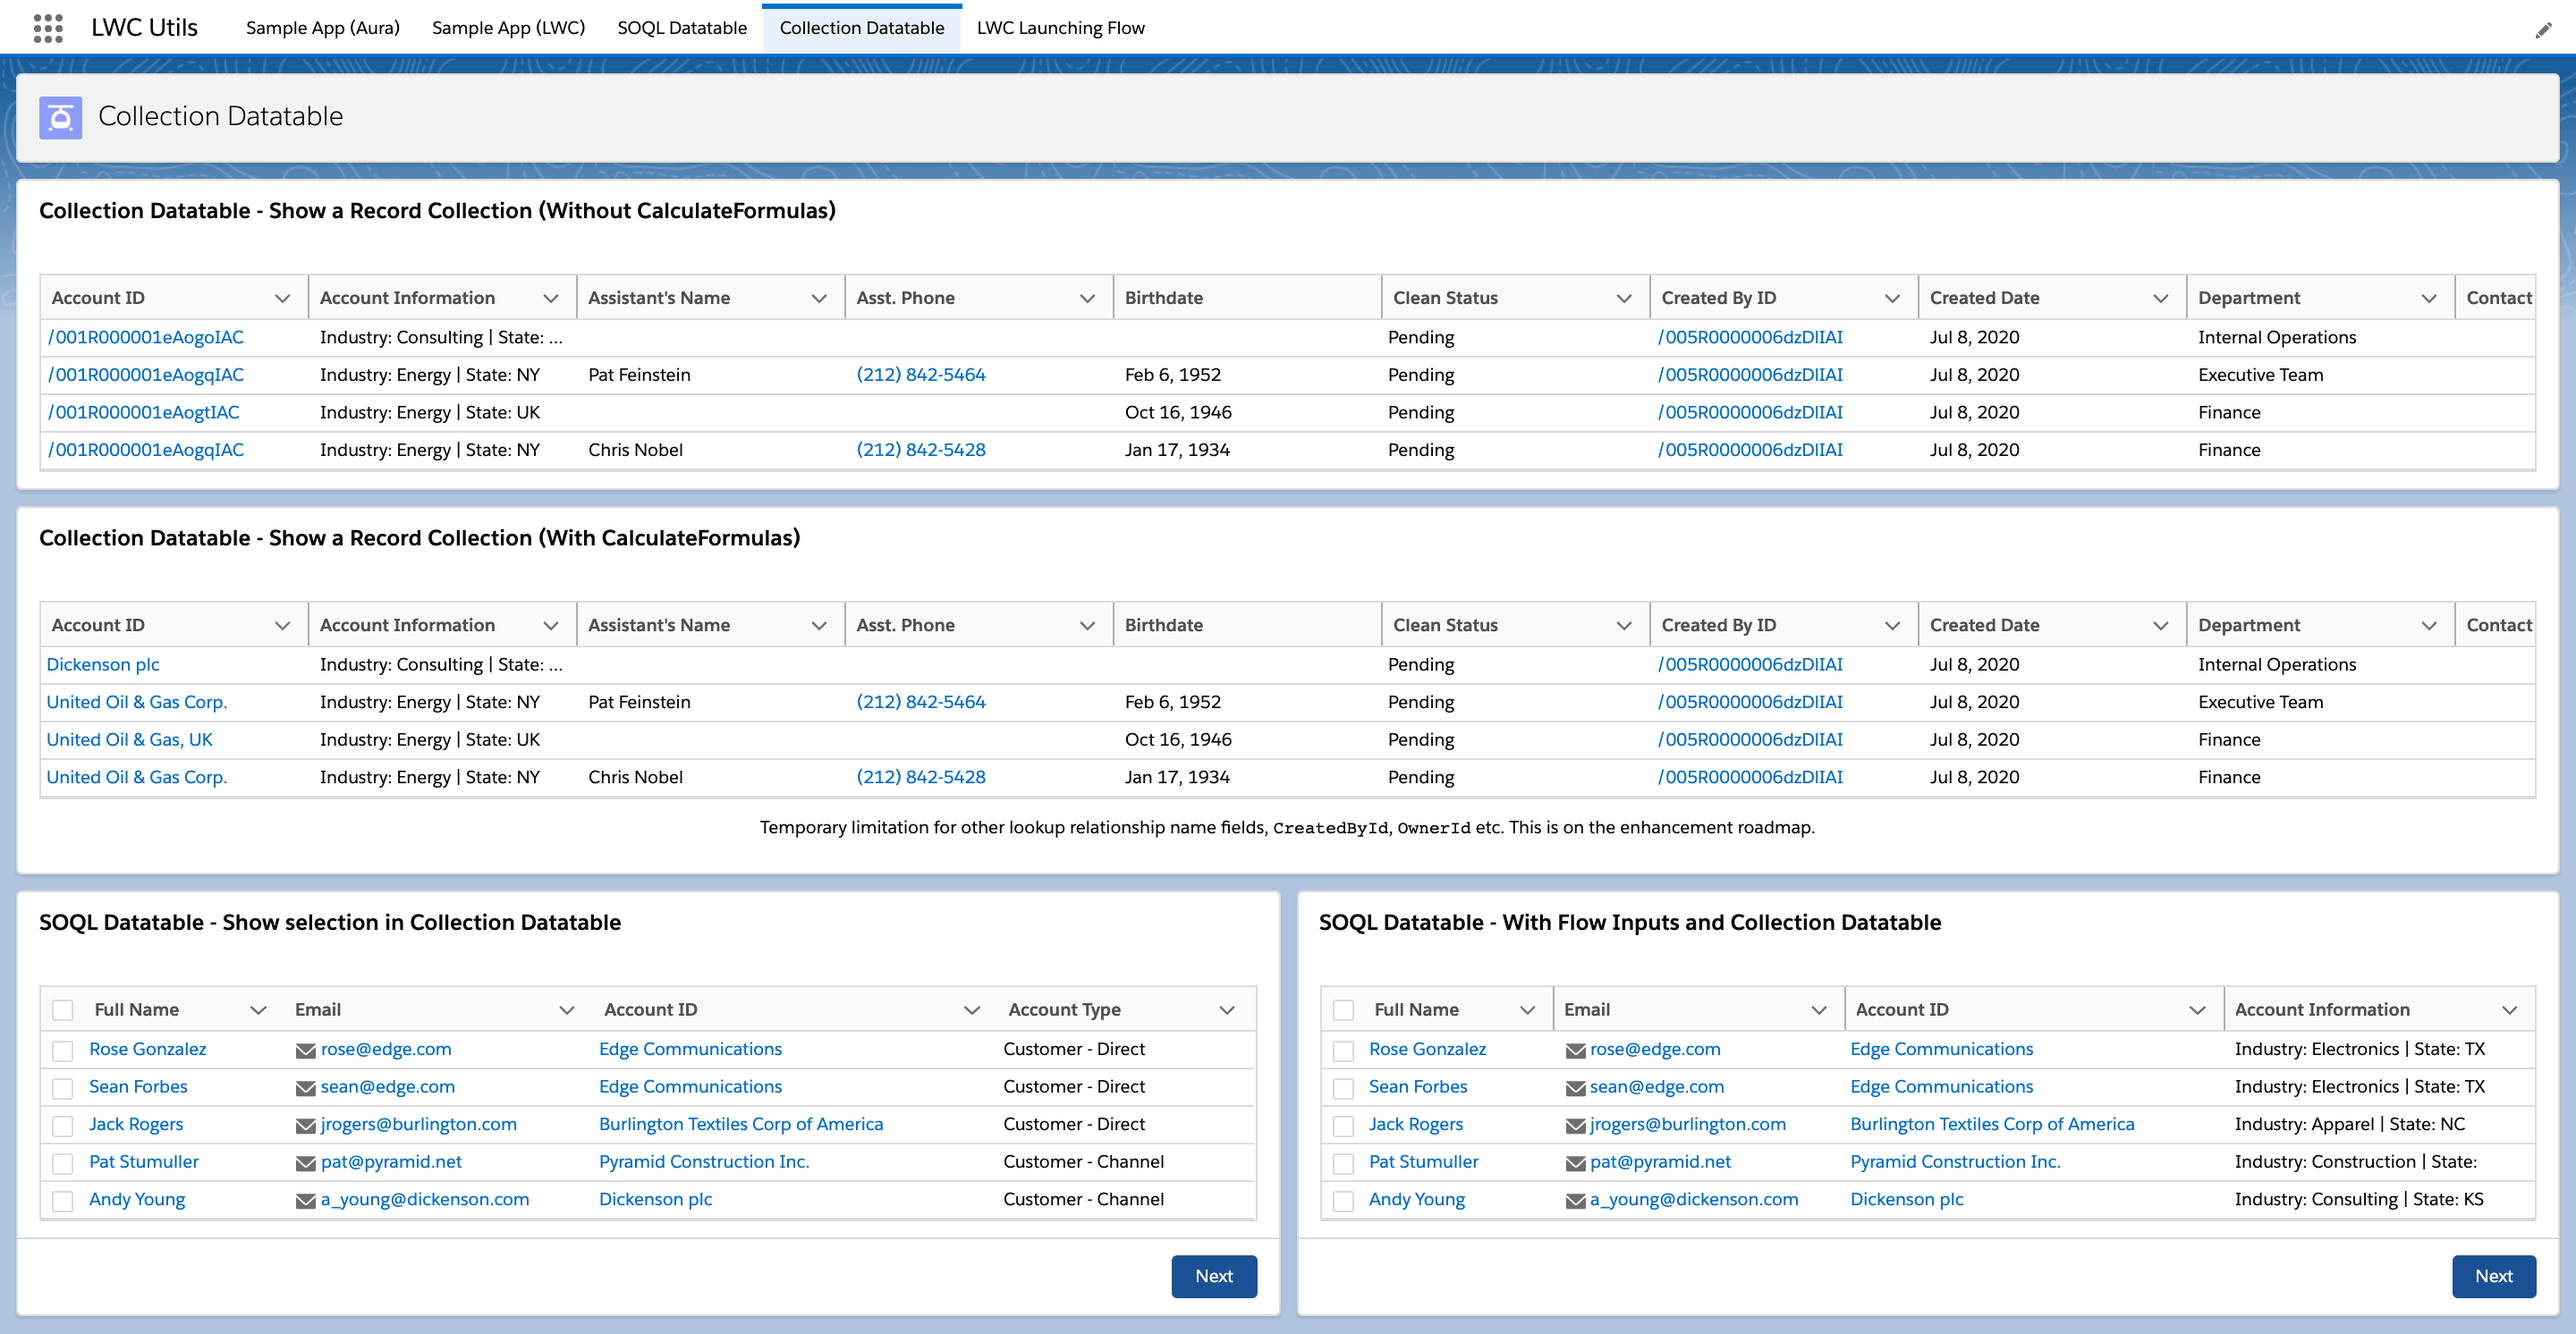
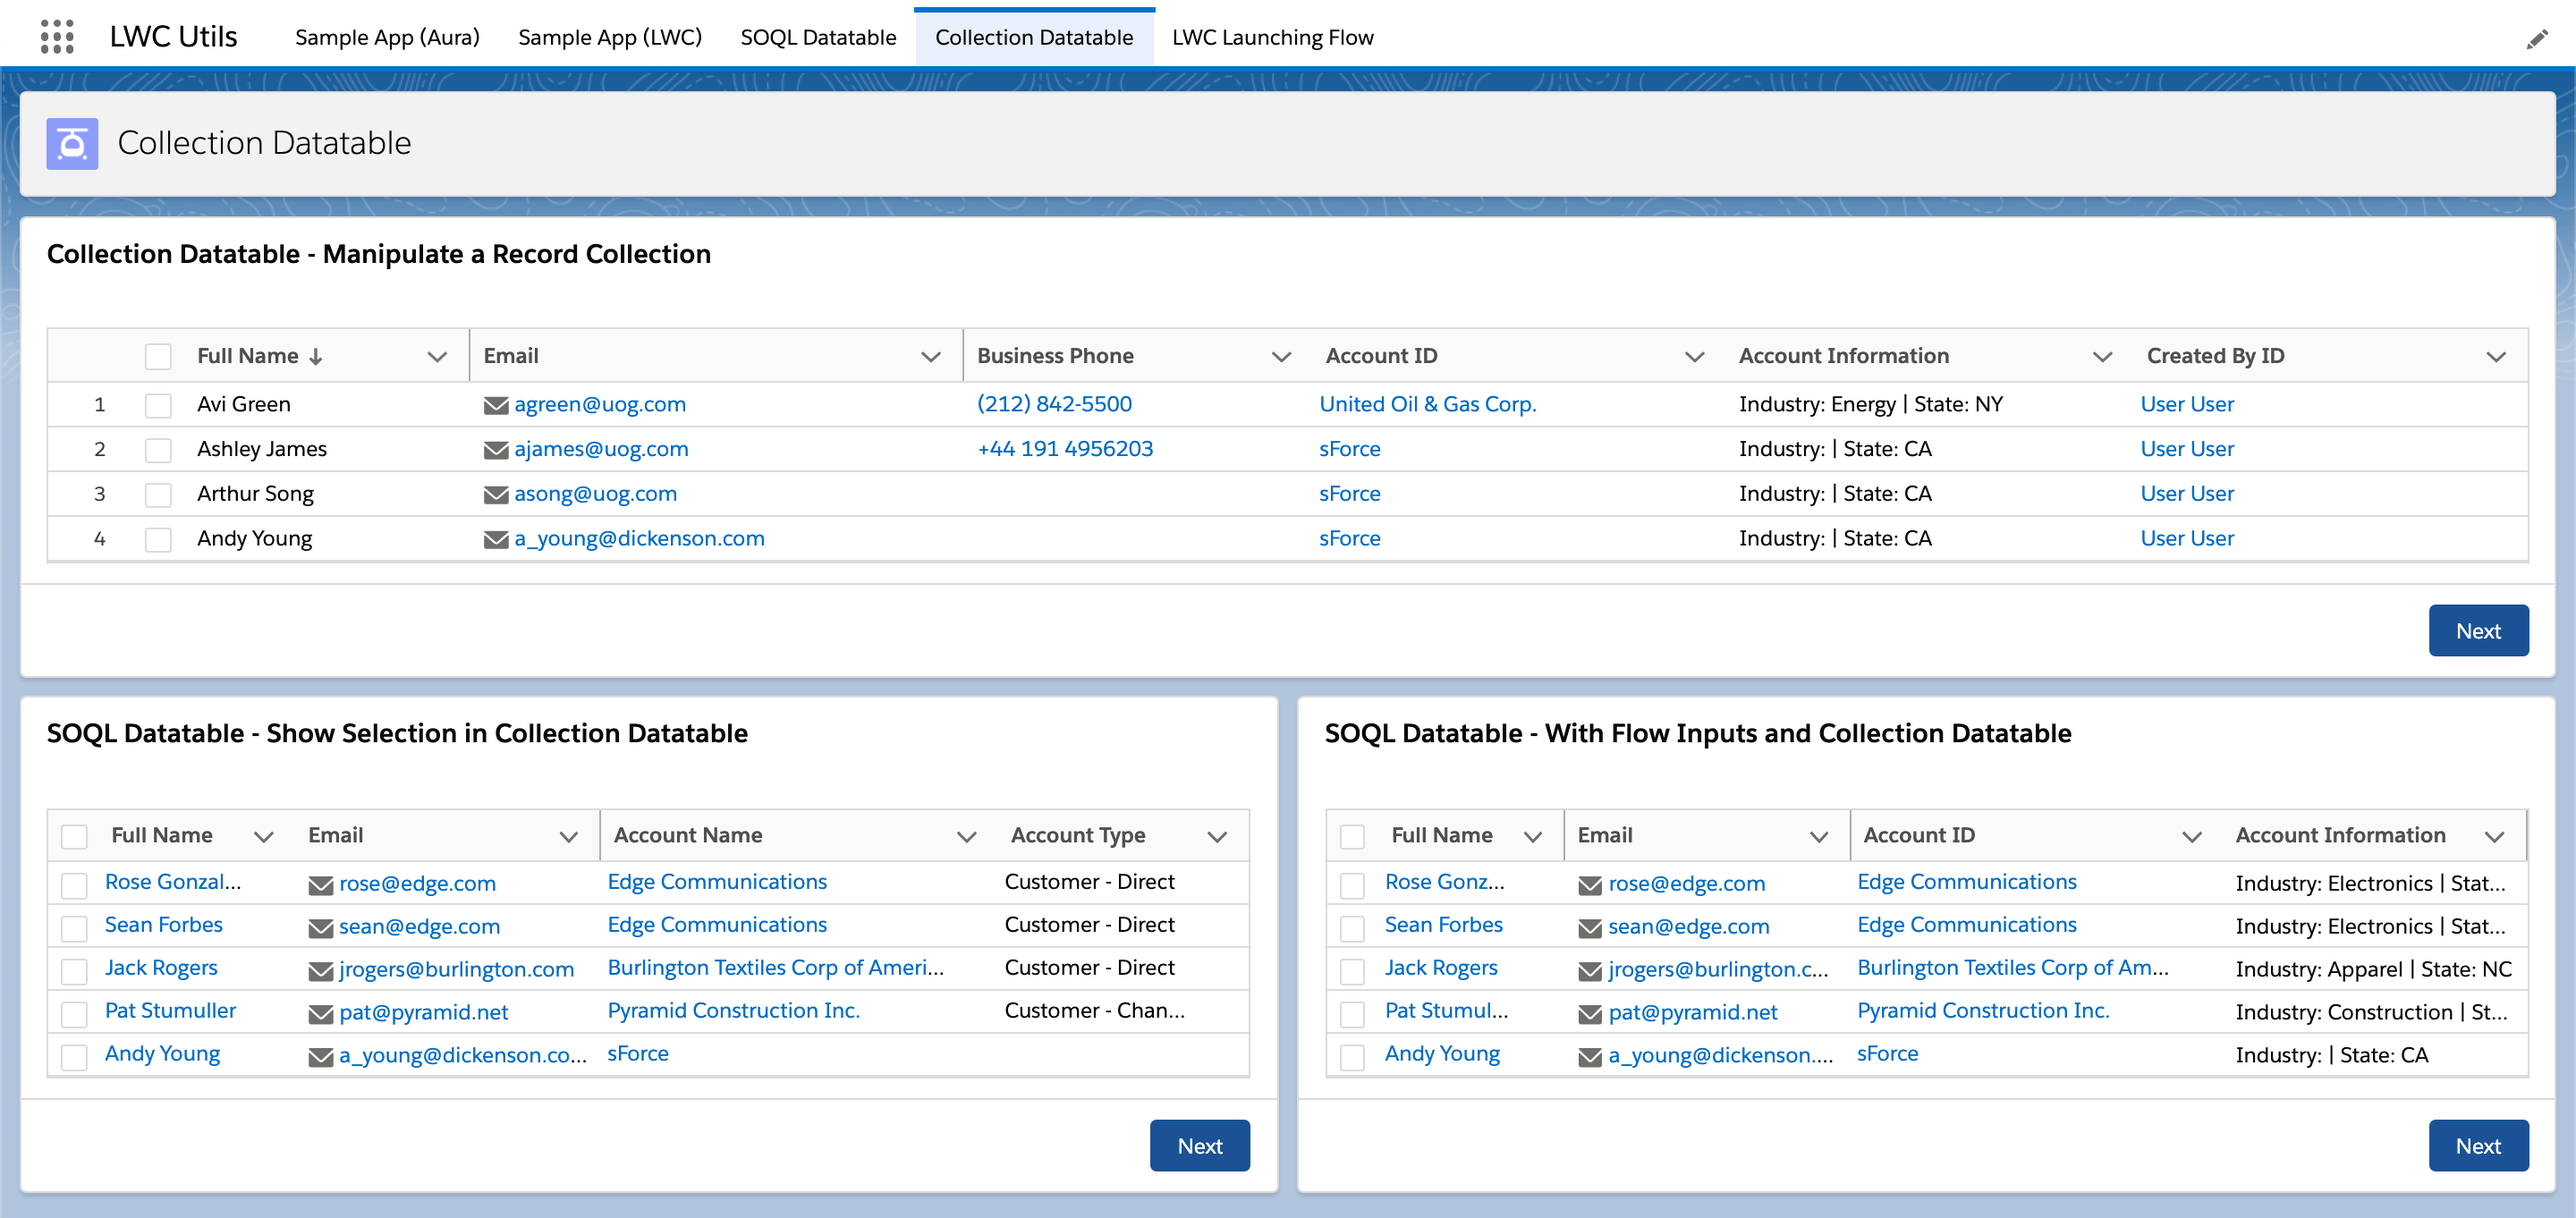
Update README with more collectionDatatable examples

Changed region(s): [[0.0, 0.0, 1.0, 0.9868]]

diff --git a/README.md b/README.md
@@ -711,24 +711,33 @@ This was designed to provide data dense feedback to the user on what they're wor
 #### collectionDatatable - Features and Examples
 
 <details>
-    <summary>Displaying Selected Records from SOQL Datatable</summary>
+    <summary>Manipulate a Record Collection</summary>
 
  
 
-This Screen Flow uses the ability for `SOQL Datatable` to output a `List<SObject>` directly in Flow.
+This example shows inline editing (single and mass) as well as how to handle saving edited records afterwards.
 
-Another component called `Collection Datatable` is able to display any Flow `Record Collection`.
+![collection-datatable-manipulate.png](readme-images/collection-datatable-manipulate.png?raw=true)
+
+</details>
+
+<details>
+    <summary>Show Selection in Collection Datatable</summary>
+
+ 
+
+This Screen Flow uses the ability for `soqlDatatable` to output a directly to `collectionDatatable`.
 
 <p align="center">
     <img src="./readme-images/soql-datatable-to-collection-datatable-flow.png" width="640">
 </p>
 
-> **Note:** You can use the SOQL Datatable's `selectedRows` output directly as an input to `collectionDatatable`. You can also assign `selectedRows` to a flow Record Collection variable as well.
+> **Note:** You can also assign `soqlDatatable`'s `selectedRows` output to a Record Collection variable as well.
 
 </details>
 
 <details>
-    <summary>Combining SOQL and Collection Datatable with Flow inputs</summary>
+    <summary>With Flow Inputs and Collection Datatable</summary>
 
  
 
